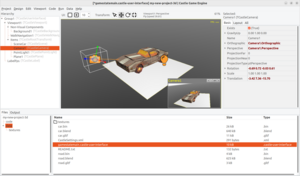
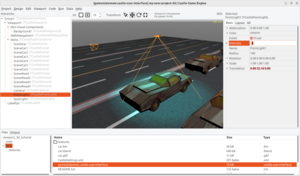
Update viewport_3d_nice_view to show new camera gizmo

diff --git a/htdocs/castle_image_sizes.php b/htdocs/castle_image_sizes.php
@@ -651,6 +651,7 @@ $castle_image_sizes = array(
 'images/gallery_size/vrml_browser_example.png' => array('width' => 300, 'height' => 217),
 'images/gallery_size/vrml_with_2d_controls_example.png' => array('width' => 300, 'height' => 188),
 'images/gallery_size/water_reflections.png' => array('width' => 300, 'height' => 225),
+'images/gallery_size/weapon_camera_child.png' => array('width' => 300, 'height' => 176),
 'images/gallery_size/www_facelift_index.png' => array('width' => 300, 'height' => 241),
 'images/gallery_size/www_facelift_vrml_status.png' => array('width' => 300, 'height' => 242),
 'images/gallery_size/www_main_page_2011_12_after.png' => array('width' => 300, 'height' => 184),
@@ -1318,6 +1319,7 @@ $castle_image_sizes = array(
 'images/original_size/vrml_browser_example.png' => array('width' => 752, 'height' => 543),
 'images/original_size/vrml_with_2d_controls_example.png' => array('width' => 1051, 'height' => 659),
 'images/original_size/water_reflections.png' => array('width' => 819, 'height' => 614),
+'images/original_size/weapon_camera_child.png' => array('width' => 1848, 'height' => 1082),
 'images/original_size/www_facelift_index.png' => array('width' => 1280, 'height' => 1030),
 'images/original_size/www_facelift_vrml_status.png' => array('width' => 1280, 'height' => 1032),
 'images/original_size/www_main_page_2011_12_after.png' => array('width' => 1280, 'height' => 784),
@@ -2013,6 +2015,7 @@ $castle_image_sizes = array(
 'images/teaser_size/vrml_browser_example.png' => array('width' => 600, 'height' => 300),
 'images/teaser_size/vrml_with_2d_controls_example.png' => array('width' => 600, 'height' => 300),
 'images/teaser_size/water_reflections.png' => array('width' => 600, 'height' => 300),
+'images/teaser_size/weapon_camera_child.png' => array('width' => 600, 'height' => 300),
 'images/teaser_size/www_facelift_index.png' => array('width' => 600, 'height' => 300),
 'images/teaser_size/www_facelift_vrml_status.png' => array('width' => 600, 'height' => 300),
 'images/teaser_size/www_main_page_2011_12_after.png' => array('width' => 600, 'height' => 300),
@@ -2689,6 +2692,7 @@ $castle_image_sizes = array(
 'images/thumb_const_height_size/vrml_browser_example.png' => array('width' => 277, 'height' => 200),
 'images/thumb_const_height_size/vrml_with_2d_controls_example.png' => array('width' => 319, 'height' => 200),
 'images/thumb_const_height_size/water_reflections.png' => array('width' => 267, 'height' => 200),
+'images/thumb_const_height_size/weapon_camera_child.png' => array('width' => 342, 'height' => 200),
 'images/thumb_const_height_size/www_facelift_index.png' => array('width' => 249, 'height' => 200),
 'images/thumb_const_height_size/www_facelift_vrml_status.png' => array('width' => 248, 'height' => 200),
 'images/thumb_const_height_size/www_main_page_2011_12_after.png' => array('width' => 327, 'height' => 200),
@@ -3365,6 +3369,7 @@ $castle_image_sizes = array(
 'images/thumb_size/vrml_browser_example.png' => array('width' => 200, 'height' => 144),
 'images/thumb_size/vrml_with_2d_controls_example.png' => array('width' => 200, 'height' => 125),
 'images/thumb_size/water_reflections.png' => array('width' => 200, 'height' => 150),
+'images/thumb_size/weapon_camera_child.png' => array('width' => 200, 'height' => 117),
 'images/thumb_size/www_facelift_index.png' => array('width' => 200, 'height' => 161),
 'images/thumb_size/www_facelift_vrml_status.png' => array('width' => 200, 'height' => 161),
 'images/thumb_size/www_main_page_2011_12_after.png' => array('width' => 200, 'height' => 123),
